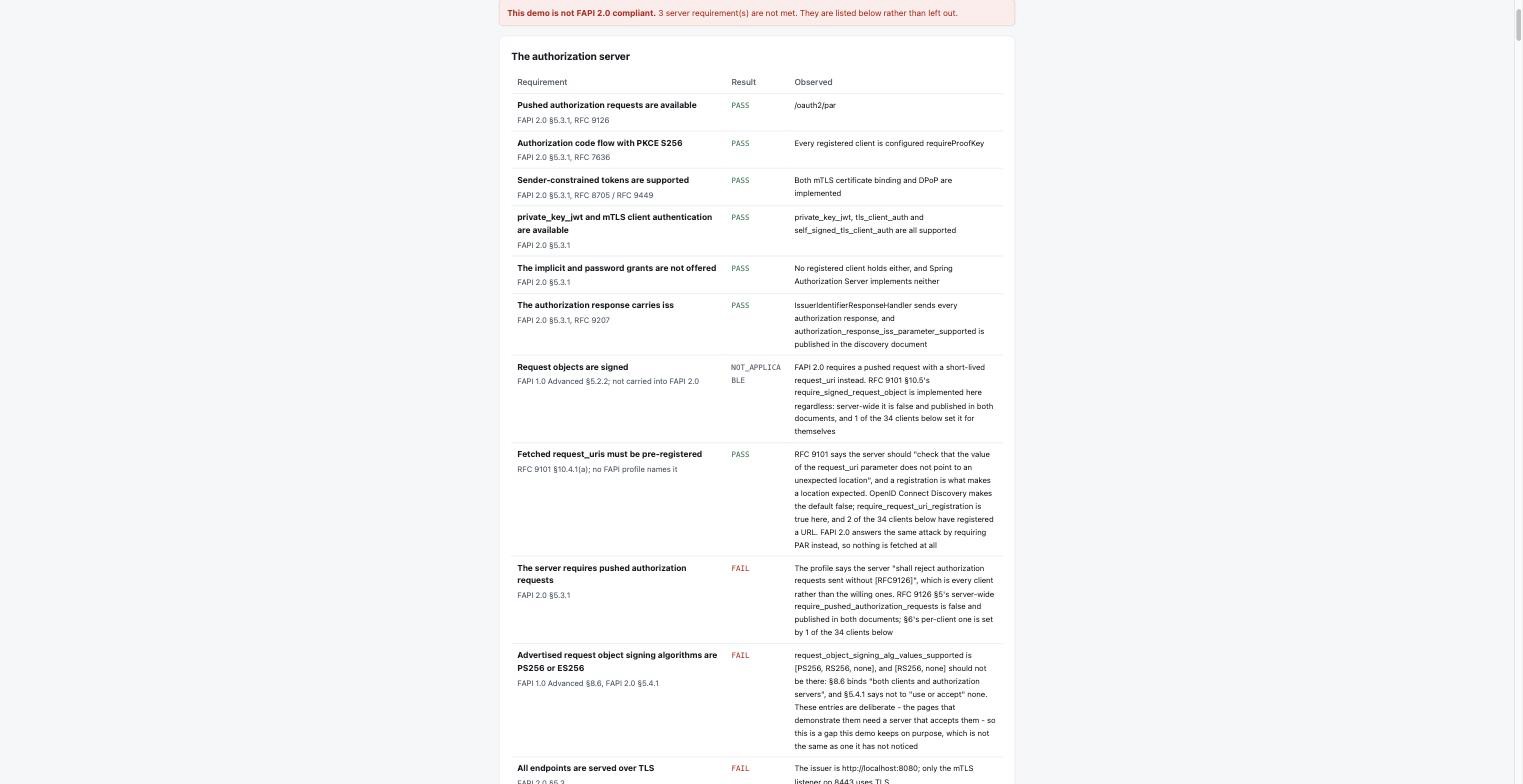
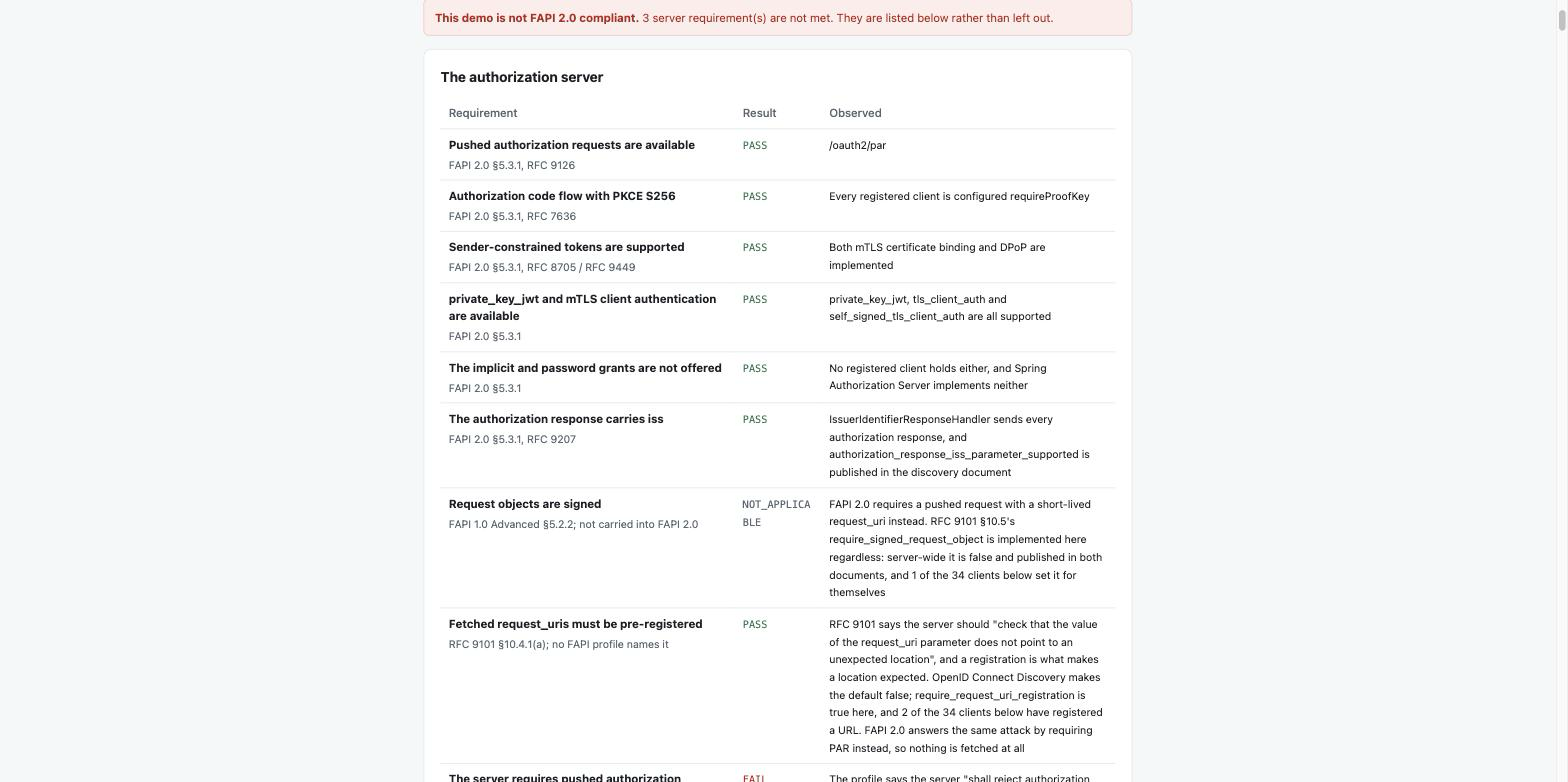
docs: the passing encryption list beside the failing signing one 📝🔐
Explains why the two rows disagree, since "encryption passes, signing
fails" reads as a difference in the rules and is not one.

The server table has outgrown a single screenshot, so 142 now shows its top
and 143 its bottom, where the two algorithm rows sit together.

diff --git a/README.md b/README.md
@@ -751,10 +751,15 @@ absent value means in each.
 
 ![The reading notes](docs/images/141-fapi-reading-this.png)
 
-**142. FAPI 2.0** — the whole server table: six passes, the row no profile asks for, the one the
-profile stopped asking for, and the three gaps — one of them kept deliberately.
+**142. FAPI 2.0** — the top of the server table: six passes, the row no profile asks for, and the
+one the profile stopped asking for.
 
 ![The server table](docs/images/142-fapi-server-request-uri-registration.png)
+
+**143. FAPI 2.0** — the bottom of it, and the pairing worth reading: the same profile section binds
+clients and servers, and the advertised signing list fails where the encryption list passes.
+
+![The two algorithm rows](docs/images/143-fapi-advertised-algorithms.png)
 
 ## Refresh tokens and public clients
 
@@ -2634,7 +2639,16 @@ requests, PKCE, sender-constrained tokens, and client authentication that involv
 | Advertised request object signing algorithms are PS256 or ES256 | [`request_object_signing_alg_values_supported`](#request_object_signing_alg_values_supported) is `[PS256, RS256, none]`. §8.6 binds *"both clients and authorization servers"*, and FAPI 2.0 §5.4.1 says not to *"use or accept"* `none` — and a supported list is precisely a statement about what is accepted. **A gap kept on purpose**: the pages demonstrating `none` and `RS256` need a server that accepts them |
 | All endpoints are served over TLS | The issuer is `http://localhost:8080`; only the mTLS listener on 8443 uses TLS |
 
-The second one is the server half of the per-client signing row further down. A client here can
+Beside it sits the encryption equivalent, which **passes**:
+[`request_object_encryption_alg_values_supported`](#request_object_encryption_alg_values_supported)
+is `[RSA-OAEP-256, RSA-OAEP-512]`, and §8.6.1 binds both sides exactly as §8.6 does. The difference
+between the two rows is not in the rules but in what each demonstration needed. Showing
+[`alg: none`](#request_object_signing_alg-none) *accepted* requires a server that accepts it; showing
+[`RSA1_5` *refused*](#request_object_encryption_alg) requires a server that does not. One list had to
+break the profile to teach its lesson and the other had to keep it — so the client that registered
+`RSA1_5` fails its row while the server passes this one.
+
+The signing failure is the server half of the per-client signing row further down. A client here can
 register `PS256`, pass its own row, and still be talking to a server that accepts `none` from
 somebody else — which is why §8.6 binds both sides and why checking only the clients would have
 been half a check. The row reads `SUPPORTED_SIGNING_ALGS`, the same constant the discovery document
